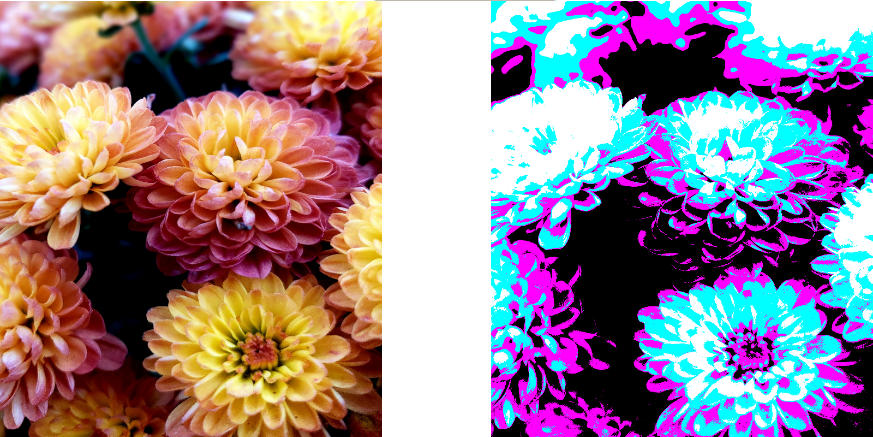
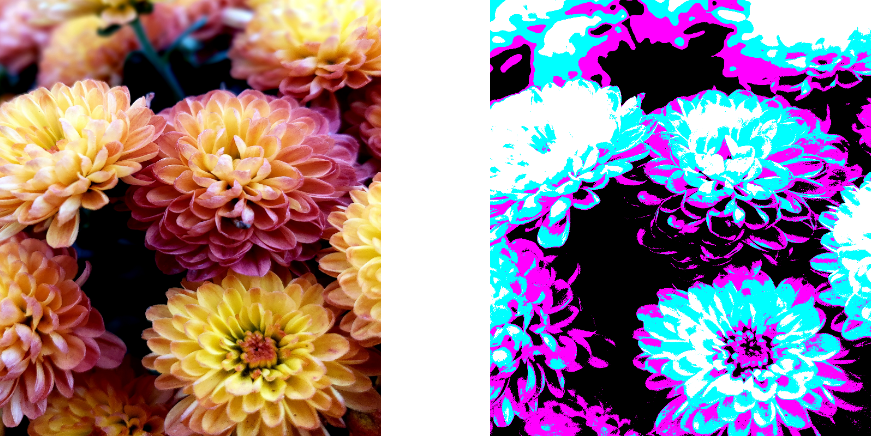
histogram and segmentation text added

diff --git a/src/pages/procesamiento.js b/src/pages/procesamiento.js
@@ -52,7 +52,6 @@ const procesamiento = () => (
                             Para el caso del efecto borroso se utilizó la técnica conocida box blur la cual toma una matriz de 3x3, donde cada una de las celdas tiene el valor de 1/9 como se presenta a continuación.
                         </p>
                         <img src="https://latex.codecogs.com/png.latex?K=\begin{pmatrix}&space;\frac{1}{9}&space;&&space;\frac{1}{9}&space;&&space;\frac{1}{9}&space;\\[6pt]&space;\frac{1}{9}&space;&&space;\frac{1}{9}&space;&&space;\frac{1}{9}\\[6pt]&space;\frac{1}{9}&space;&&space;\frac{1}{9}&space;&&space;\frac{1}{9}&space;\end{pmatrix}" alt=""/>
-                        
                     </li>
                     <li>
                         <h4>Detección de bordes</h4>
@@ -77,10 +76,66 @@ const procesamiento = () => (
                     código presentado a continuación:
                 </p>
             </li>
-            <li><h3>Histograma de la imagen</h3></li>
-            <li><h3>Segmentación de imagenes</h3></li>
+            <li>
+				<h3>Histograma de la imagen</h3>
+				<p>
+					Es una distribución gráfica de los distintos tonos de una imagen, la mostrada en la presente pŕactica representa
+					256 tonos de los colores Rojo, Verde y Azul, además de 256 niveles de brillo.
+				</p>
+				<h4>Creación de la gráfica</h4>
+				<p>
+					Para la creación de la gráfica, se declararon 4 arreglos, uno para cada color RGB y otro para el brillo, luego se
+					evaluó cada pixel de la imagen, calculando su brillo (siendo este valor transformado en un entero entre 0 y 255),
+					e incremmentando el valor correspondiente al tono de cada color y brillo en su arreglo correspondiente.
+				</p>
+				<p>
+					Finalmente se mapea la longitud de los arrays con el tamaño de la imagen, para dibujar las líneas que representen
+					los diferentes tonos y brillos procesados.
+				</p>
+				<h4>Interpretación de la Gráfica</h4>
+				<p>
+					En esta se ven 4 gráficas superpuestas, donde la que tiene el color negro representa el brillo, y las demás tienen
+					el color de los tonos que buscan representar.
+				</p>
+				<h5>Tonos Oscuros</h5>
+				<p>
+					La gráfica tiende a desplazarse a la izquierda, ya que los tonos de los colores utilizados son más oscuros, y por ende
+					su brillo es más bajo.
+				</p>
+				<img src="images/histogram_00.png"/>
+				<h5>Tonos Claros</h5>
+				<p>
+					La gráfica tiende a desplazarse a la derecha, puesto que los tonos presentes en la misma son claros y su brillo es más alto.
+				</p>
+				<img src="images/histogram_01.png"/>
+				<h5>Distribución Homogénea</h5>
+				<p>
+					El histograma se distribuye a lo largo de todo el eje horizontal, esto porque no existen zonas quemadas ni excesivamente
+					oscuras, por lo que no se encontrarán grandes picos en la gráfica.
+				</p>
+				<img src="images/histogram_02.png"/>
+			</li>
+            <li>
+				<h3>Segmentación de imagenes</h3>
+				<p>
+					La segmentación es el proceso de dividir la imagen en grupos de pixeles, el objetivo es simplificar o cambiar la representación de
+					la misma que resulta más significativa y fácil de analizar. Esta es utilizada para localizar objetos como para encontrar los
+					límites de estos en una imágen.
+				</p>
+				<p>
+					Para la creación de esta funcionalidad, se procesó la imagen, transformandola a un formato de escala de grises utilizando el
+					algorítmo luma, luego de ello se definieron 4 grupos y se les asignó un color:
+					<ul>
+						<li>Aquellos cuyo brillo estuviera entre 0 y 63, fueron redefinidos con el color negro.</li>
+						<li>Aquellos cuyo brillo estuviera entre 64 y 127, fueron redefinidos con el color cyan.</li>
+						<li>Aquellos cuyo brillo estuviera entre 128 y 191, fueron redefinidos con el color magenta.</li>
+						<li>Aquellos cuyo brillo estuviera entre 192 y 255, fueron redefinidos con el color blanco.</li>
+					</ul>
+					El resultado de la segmentación previamente explicado, es el siguiente:
+				</p>
+				<img src="images/segmentation.png"/>
+			</li>
         </ol>
-        
         <h2>Procesamiento de videos</h2>
         <p>
             Se utilizaron las mismas tecnicas aplicadas para imágenes para el procesamiento del video. En este casos

diff --git a/src/components/test.js b/src/components/test.js
@@ -14,7 +14,7 @@ export default function Test( p5 ) {
         sel.option('Deteccion de bordes','4')
         sel.option('Sharpen','5');
 		sel.option('Histograma','6');
-        sel.option('Segmentacion','8');
+        sel.option('Segmentación','8');
         sel.selected('0');
         sel.changed(change)
         p5.createCanvas(800, 400);
